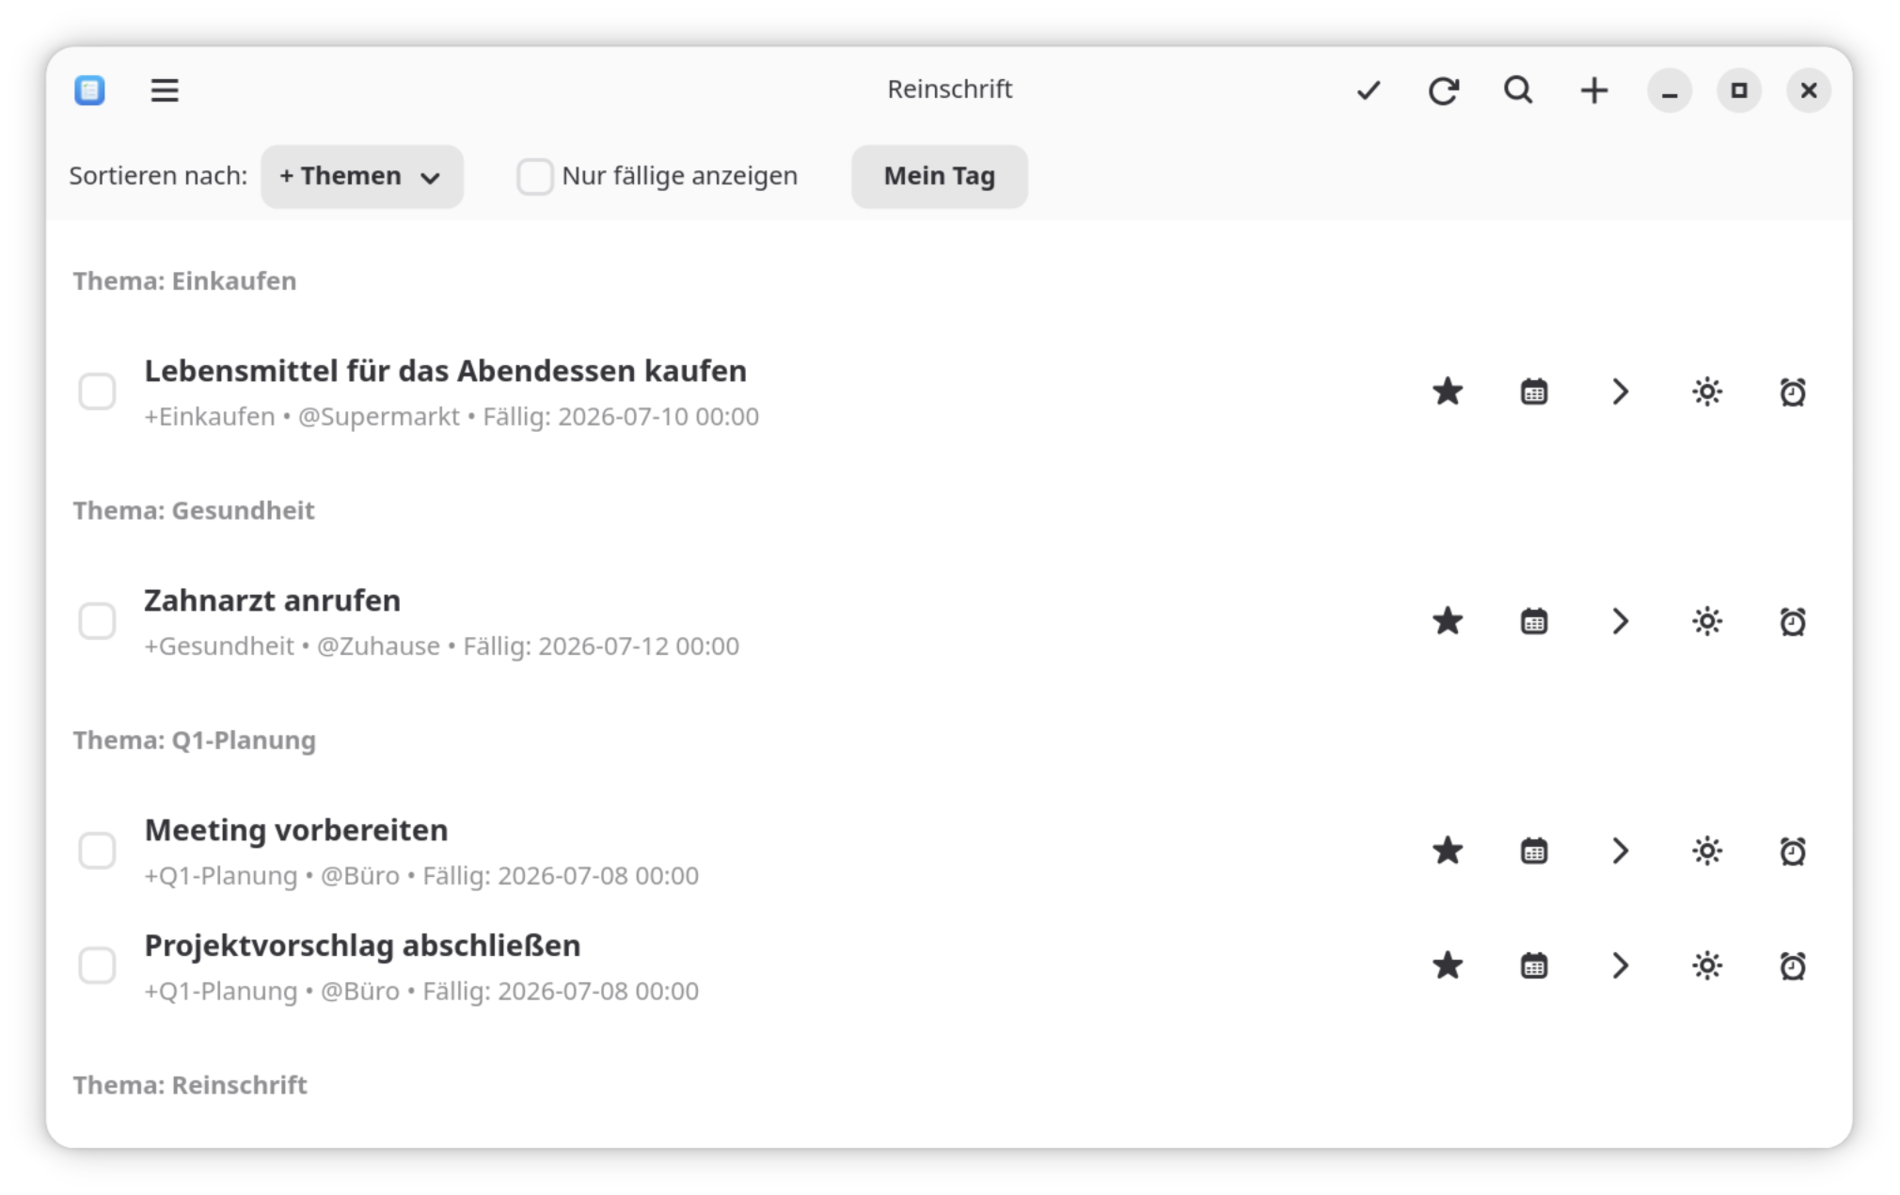
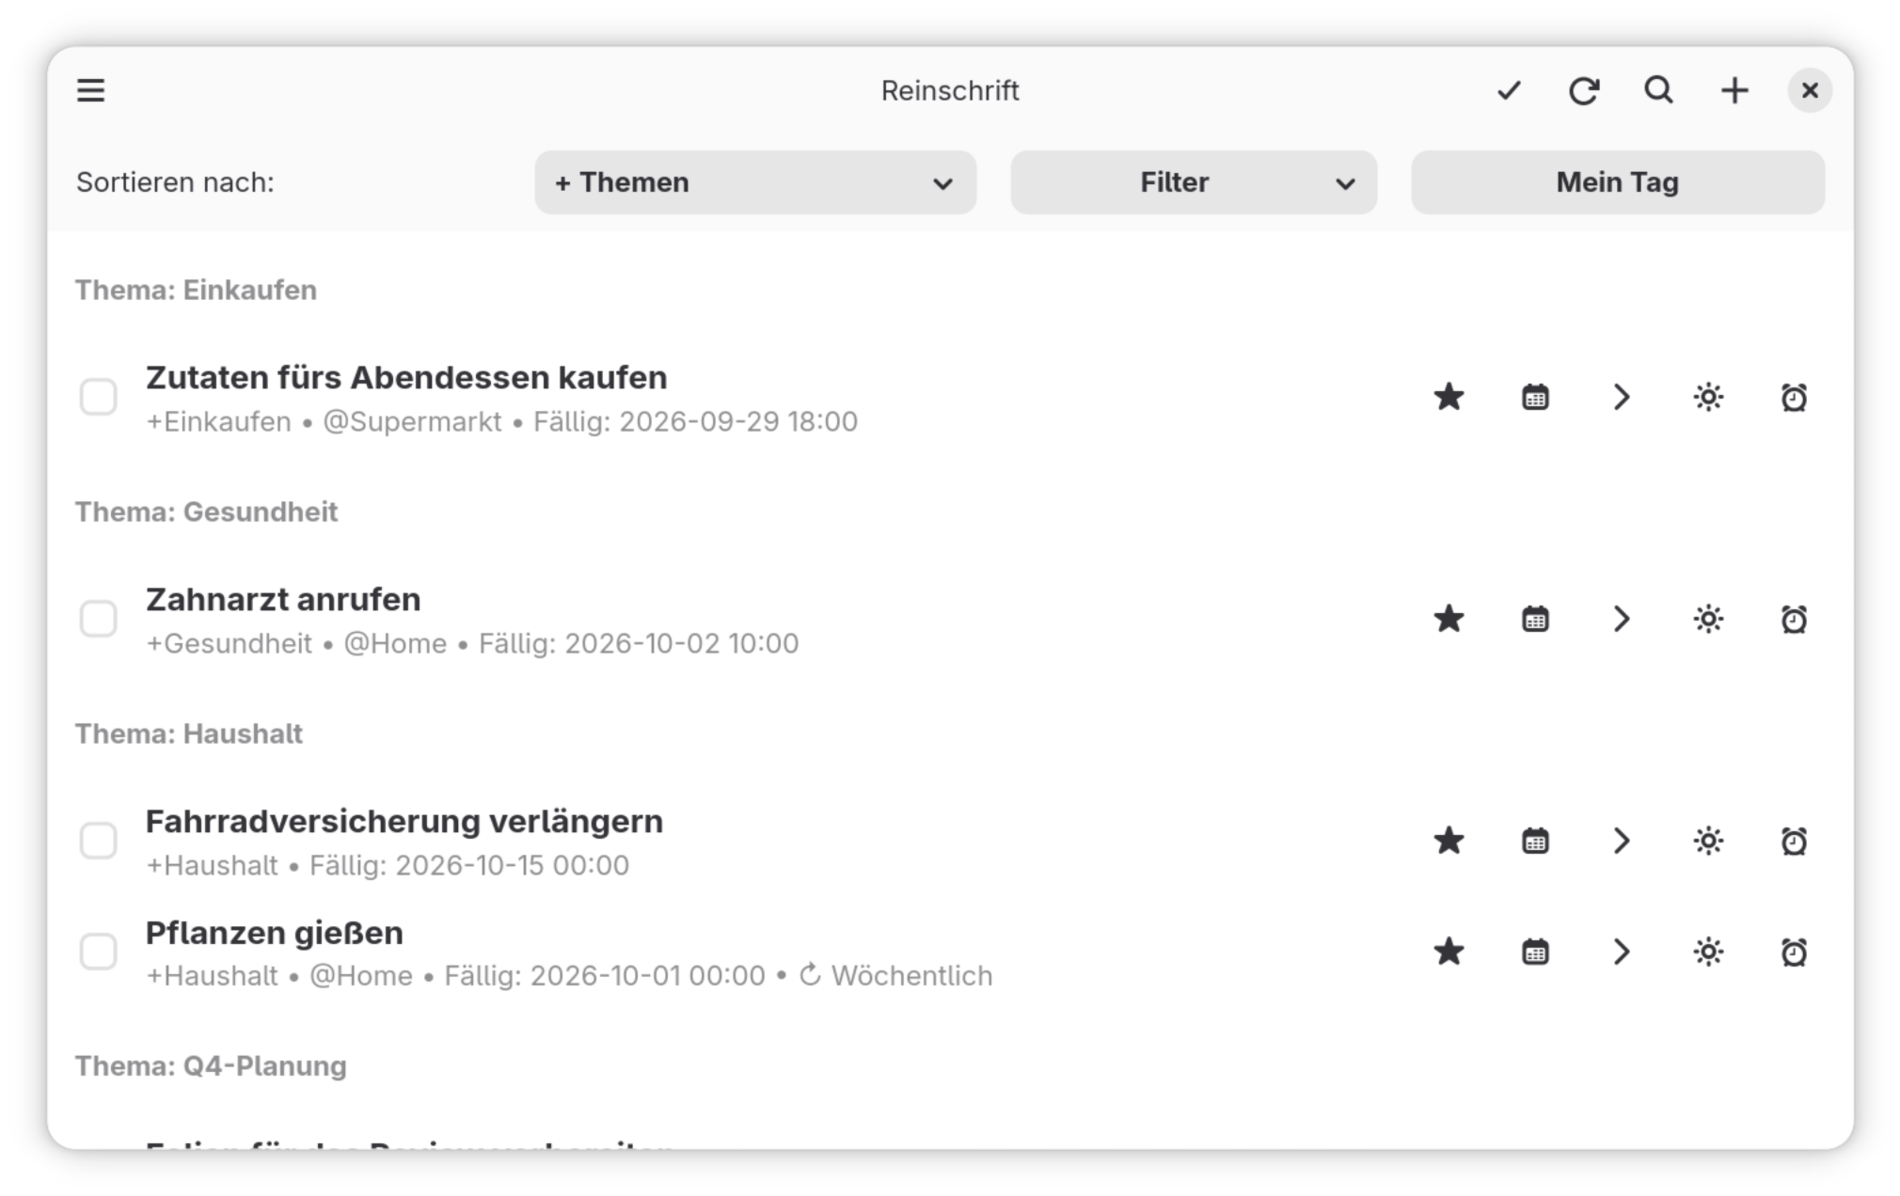
v1.1.9: Auswahl in der Liste bleibt nach Mausbewegung nicht mehr stehen; neue Screenshots
- GUI: single-click-activate wählt die Zeile unter dem Zeiger aus; beim
  Verlassen der Liste wird die Auswahl jetzt aufgehoben. Themen-
  Überschriften sind nicht mehr auswähl- oder aktivierbar.
- Screenshots für Flathub neu aufgenommen (Filter-Knopf statt „Nur
  fällige anzeigen"), Beispieldaten mit aktuellen Fälligkeiten.

diff --git a/gui/src/ui.rs b/gui/src/ui.rs
@@ -2043,6 +2043,11 @@ fn create_list_view(state: &Rc<AppState>) -> gtk::ListView {
             return;
         };
         let entry = todo_obj.borrow::<ListEntry>();
+        // Überschriften weder hervorheben noch aktivieren; ListItems werden
+        // wiederverwendet, daher bei jedem Bind neu setzen.
+        let is_header = matches!(&*entry, ListEntry::Header(_));
+        list_item.set_selectable(!is_header);
+        list_item.set_activatable(!is_header);
         let Some(stack_ref_ptr) = (unsafe { list_item.data::<glib::WeakRef<gtk::Stack>>("stack") }) else {
             return;
         };
@@ -2212,8 +2217,13 @@ fn create_list_view(state: &Rc<AppState>) -> gtk::ListView {
     let model = gtk::SingleSelection::new(Some(state.store()));
     model.set_autoselect(false);
     model.set_can_unselect(true);
-    let list_view = gtk::ListView::new(Some(model), Some(factory));
+    let list_view = gtk::ListView::new(Some(model.clone()), Some(factory));
     list_view.set_single_click_activate(true);
+    // single-click-activate wählt die Zeile unter dem Zeiger aus; ohne das
+    // bliebe die Hervorhebung stehen, nachdem die Maus die Liste verlassen hat.
+    let motion = gtk::EventControllerMotion::new();
+    motion.connect_leave(move |_| model.set_selected(gtk::INVALID_LIST_POSITION));
+    list_view.add_controller(motion);
     let activate_state = state_weak.clone();
     list_view.connect_activate(move |_, position| {
         if let Some(state) = activate_state.upgrade() {

diff --git a/screenshots/db_de.md b/screenshots/db_de.md
@@ -2,12 +2,14 @@
 
 Deine Aufgabenliste im Markdown-Format.
 
-- [ ] Projektvorschlag abschließen +Q1-Planung @Büro due:2025-12-26 [[https://github.com/danst0/ReinschriftTodo]]
-- [ ] Meeting vorbereiten +Q1-Planung @Büro due:2025-12-26
-- [ ] UI-Bug beheben +Reinschrift @Home due:2025-12-27 [[https://github.com/danst0/ReinschriftTodo/issues/1]]
-- [ ] Lebensmittel für das Abendessen kaufen +Einkaufen @Supermarkt due:2025-12-26
-- [ ] Zahnarzt anrufen +Gesundheit @Home due:2025-12-28
+- [ ] Projektvorschlag abschließen +Q4-Planung @Büro due:2026-09-29T14:00 myday:2026-09-29 ^a1b2c3 [[https://github.com/danst0/ReinschriftTodo]]
+- [ ] Folien für das Review vorbereiten +Q4-Planung @Büro due:2026-09-30T09:30 ^a1b2c4
+- [ ] UI-Bug beheben +Reinschrift @Home due:2026-09-28 myday:2026-09-29 ^a1b2c5 [[https://github.com/danst0/ReinschriftTodo/issues/1]]
+- [ ] Zutaten fürs Abendessen kaufen +Einkaufen @Supermarkt due:2026-09-29T18:00 myday:2026-09-29 ^a1b2c6 ~note:"Hafermilch, Tomaten, Basilikum"
+- [ ] Zahnarzt anrufen +Gesundheit @Home due:2026-10-02T10:00 ^a1b2c7
+- [ ] Pflanzen gießen +Haushalt @Home due:2026-10-01 rec:weekly ^a1b2c8
+- [ ] Fahrradversicherung verlängern +Haushalt due:2026-10-15 ^a1b2c9
 
 ---
 
-- [x] Ein Buch lesen ✅ 2025-12-25
+- [x] Ein Buch lesen ✅ 2026-09-27

diff --git a/screenshots/db_en.md b/screenshots/db_en.md
@@ -2,12 +2,14 @@
 
 Your task list in markdown format.
 
-- [ ] Finish project proposal +Q1-Planning @Office due:2025-12-26 [[https://github.com/danst0/ReinschriftTodo]]
-- [ ] Prepare for the meeting +Q1-Planning @Office due:2025-12-26
-- [ ] Fix the bug in the UI +Reinschrift @Home due:2025-12-27 [[https://github.com/danst0/ReinschriftTodo/issues/1]]
-- [ ] Buy groceries for dinner +Shopping @Supermarket due:2025-12-26
-- [ ] Call the dentist +Health @Home due:2025-12-28
+- [ ] Finish project proposal +Q4-Planning @Office due:2026-09-29T14:00 myday:2026-09-29 ^a1b2c3 [[https://github.com/danst0/ReinschriftTodo]]
+- [ ] Prepare slides for the review +Q4-Planning @Office due:2026-09-30T09:30 ^a1b2c4
+- [ ] Fix the bug in the UI +Reinschrift @Home due:2026-09-28 myday:2026-09-29 ^a1b2c5 [[https://github.com/danst0/ReinschriftTodo/issues/1]]
+- [ ] Buy groceries for dinner +Shopping @Supermarket due:2026-09-29T18:00 myday:2026-09-29 ^a1b2c6 ~note:"Oat milk, tomatoes, basil"
+- [ ] Call the dentist +Health @Home due:2026-10-02T10:00 ^a1b2c7
+- [ ] Water the plants +Home @Home due:2026-10-01 rec:weekly ^a1b2c8
+- [ ] Renew bike insurance +Home due:2026-10-15 ^a1b2c9
 
 ---
 
-- [x] Read a book ✅ 2025-12-25
+- [x] Read a book ✅ 2026-09-27
